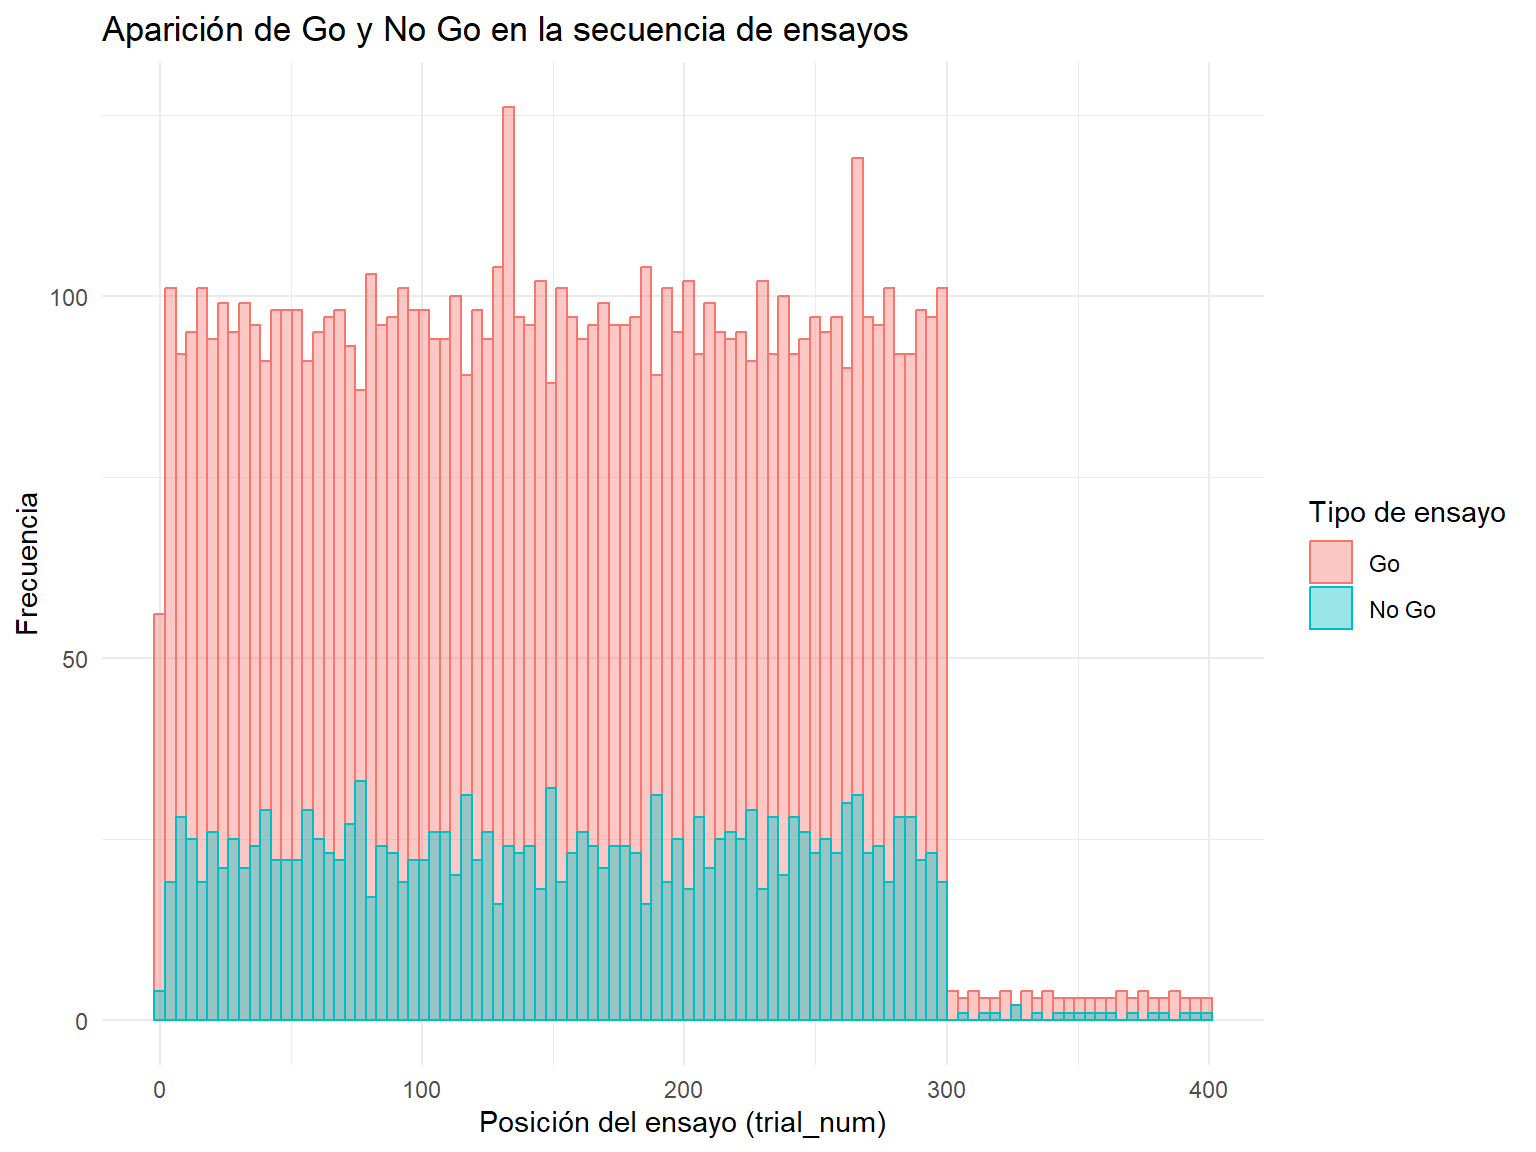
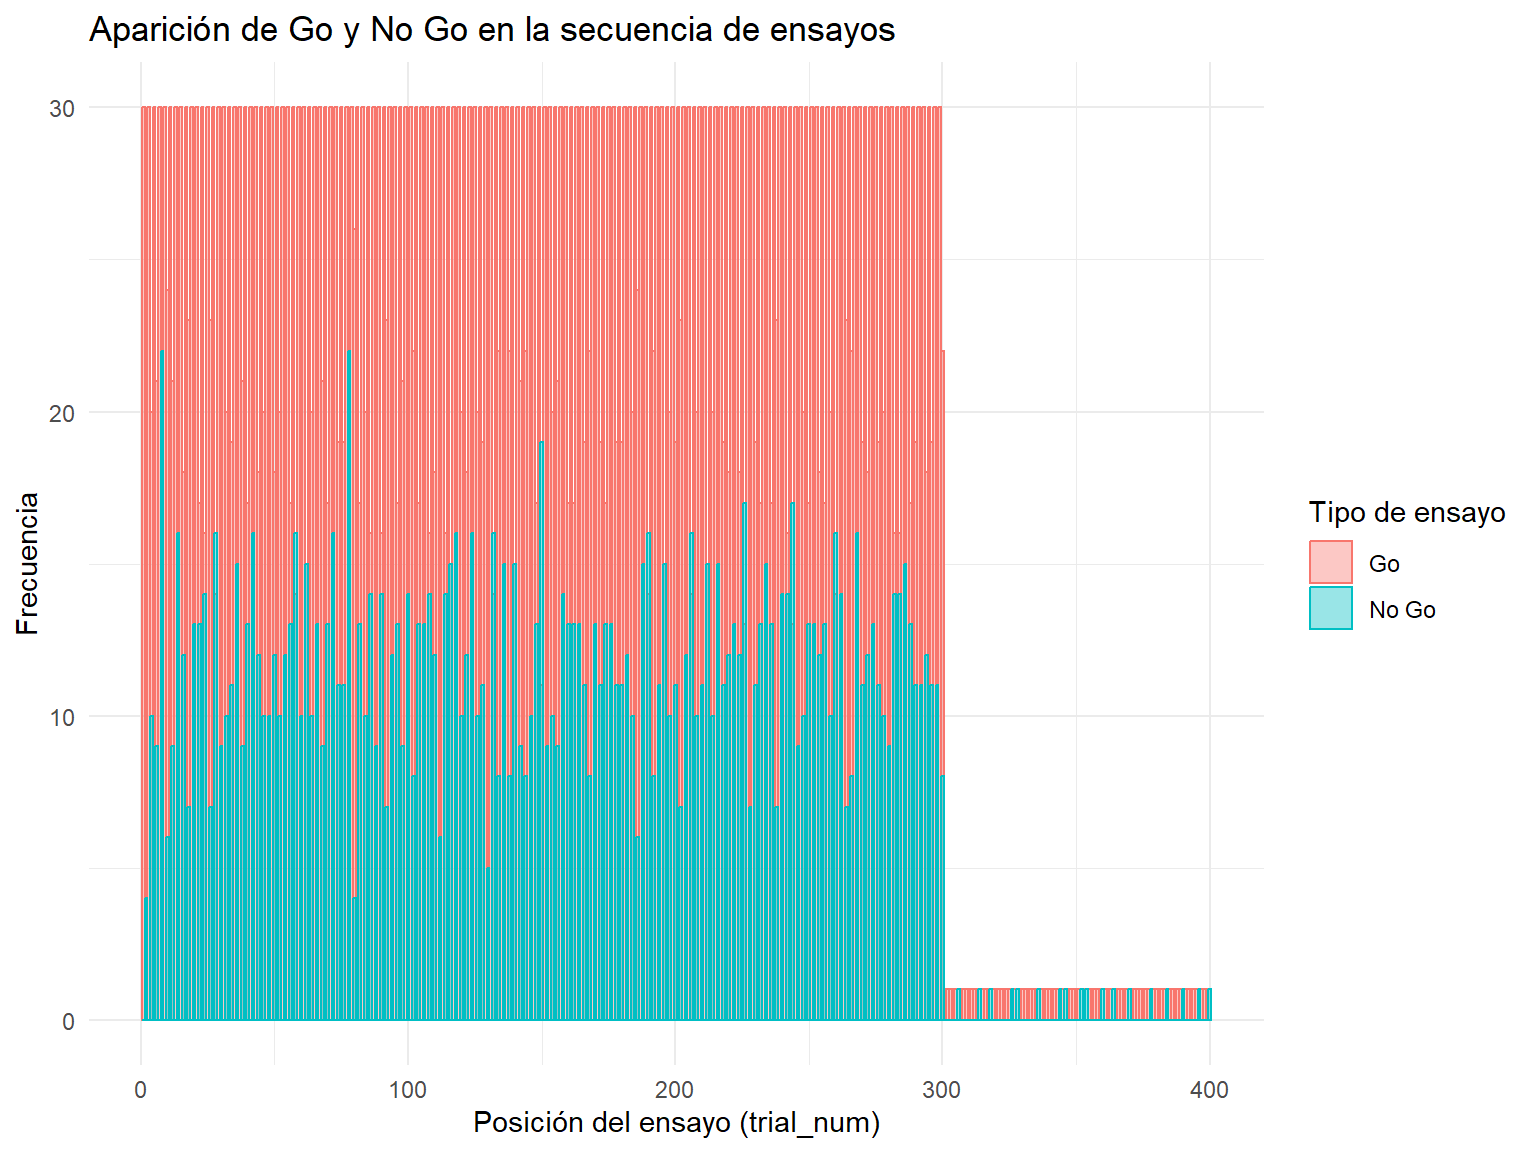
7

diff --git a/docs/Tarea1.html b/docs/Tarea1.html
@@ -116,7 +116,7 @@ pre > code.sourceCode > span > a:first-child::before { text-decoration: underlin
     <div>
     <div class="quarto-title-meta-heading">Fecha de publicación</div>
     <div class="quarto-title-meta-contents">
-      <p class="date">27 de abril de 2025</p>
+      <p class="date">28 de abril de 2025</p>
     </div>
   </div>
   
@@ -313,7 +313,7 @@ pre > code.sourceCode > span > a:first-child::before { text-decoration: underlin
 <span id="cb3-7"><a href="#cb3-7" aria-hidden="true" tabindex="-1"></a>  <span class="fu">mutate</span>(<span class="at">resp_label =</span> <span class="fu">ifelse</span>(resp <span class="sc">==</span> <span class="sc">-</span><span class="dv">99</span>, <span class="st">"No Respuesta"</span>, <span class="st">"Respuesta"</span>))</span>
 <span id="cb3-8"><a href="#cb3-8" aria-hidden="true" tabindex="-1"></a></span>
 <span id="cb3-9"><a href="#cb3-9" aria-hidden="true" tabindex="-1"></a><span class="fu">ggplot</span>(data, <span class="fu">aes</span>(<span class="at">x =</span> trial_num, <span class="at">fill =</span> est_label, <span class="at">color =</span> est_label)) <span class="sc">+</span></span>
-<span id="cb3-10"><a href="#cb3-10" aria-hidden="true" tabindex="-1"></a>  <span class="fu">geom_histogram</span>(<span class="at">position =</span> <span class="st">"identity"</span>, <span class="at">alpha =</span> <span class="fl">0.4</span>, <span class="at">bins =</span> <span class="dv">100</span>) <span class="sc">+</span></span>
+<span id="cb3-10"><a href="#cb3-10" aria-hidden="true" tabindex="-1"></a>  <span class="fu">geom_histogram</span>(<span class="at">position =</span> <span class="st">"identity"</span>, <span class="at">alpha =</span> <span class="fl">0.4</span>, <span class="at">bins =</span> <span class="dv">400</span>) <span class="sc">+</span></span>
 <span id="cb3-11"><a href="#cb3-11" aria-hidden="true" tabindex="-1"></a>  <span class="fu">labs</span>(<span class="at">title =</span> <span class="st">"Aparición de Go y No Go en la secuencia de ensayos"</span>,</span>
 <span id="cb3-12"><a href="#cb3-12" aria-hidden="true" tabindex="-1"></a>       <span class="at">x =</span> <span class="st">"Posición del ensayo (trial_num)"</span>,</span>
 <span id="cb3-13"><a href="#cb3-13" aria-hidden="true" tabindex="-1"></a>       <span class="at">y =</span> <span class="st">"Frecuencia"</span>,</span>
